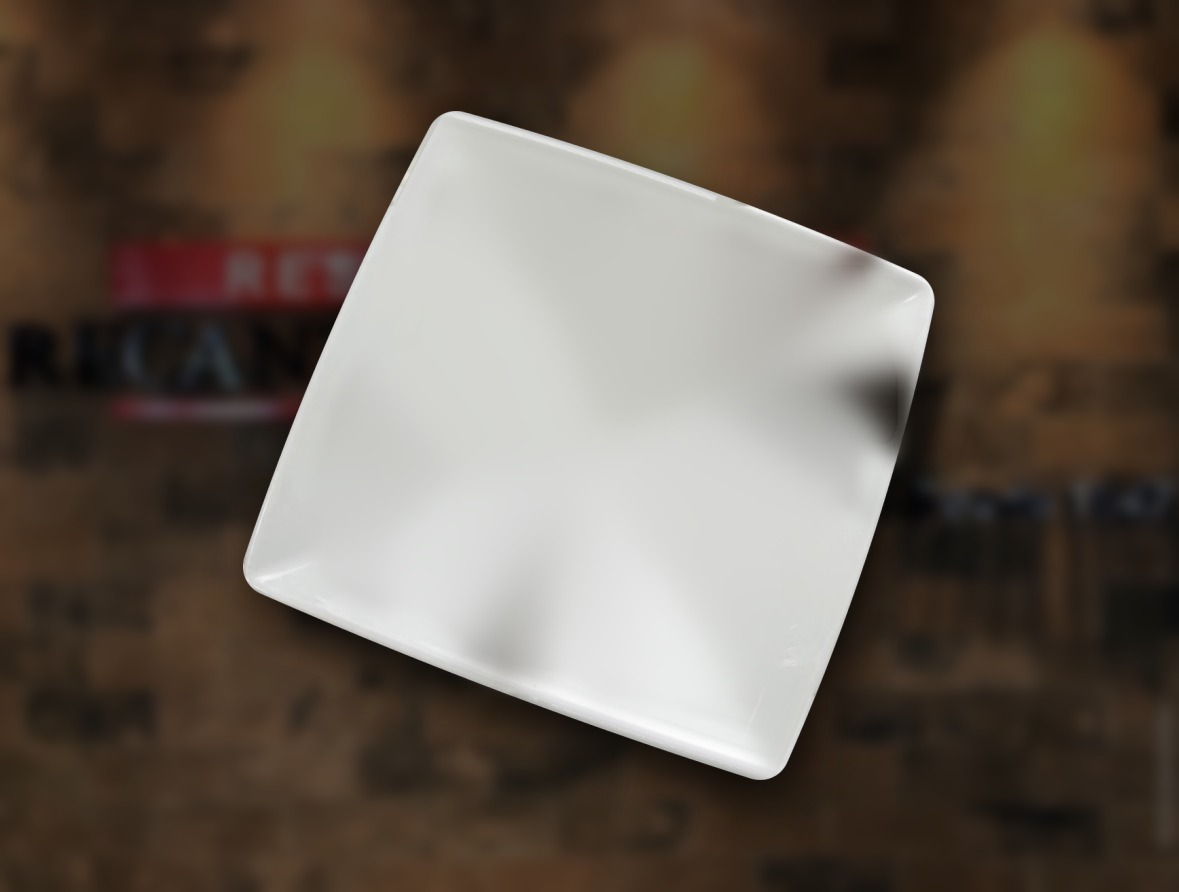
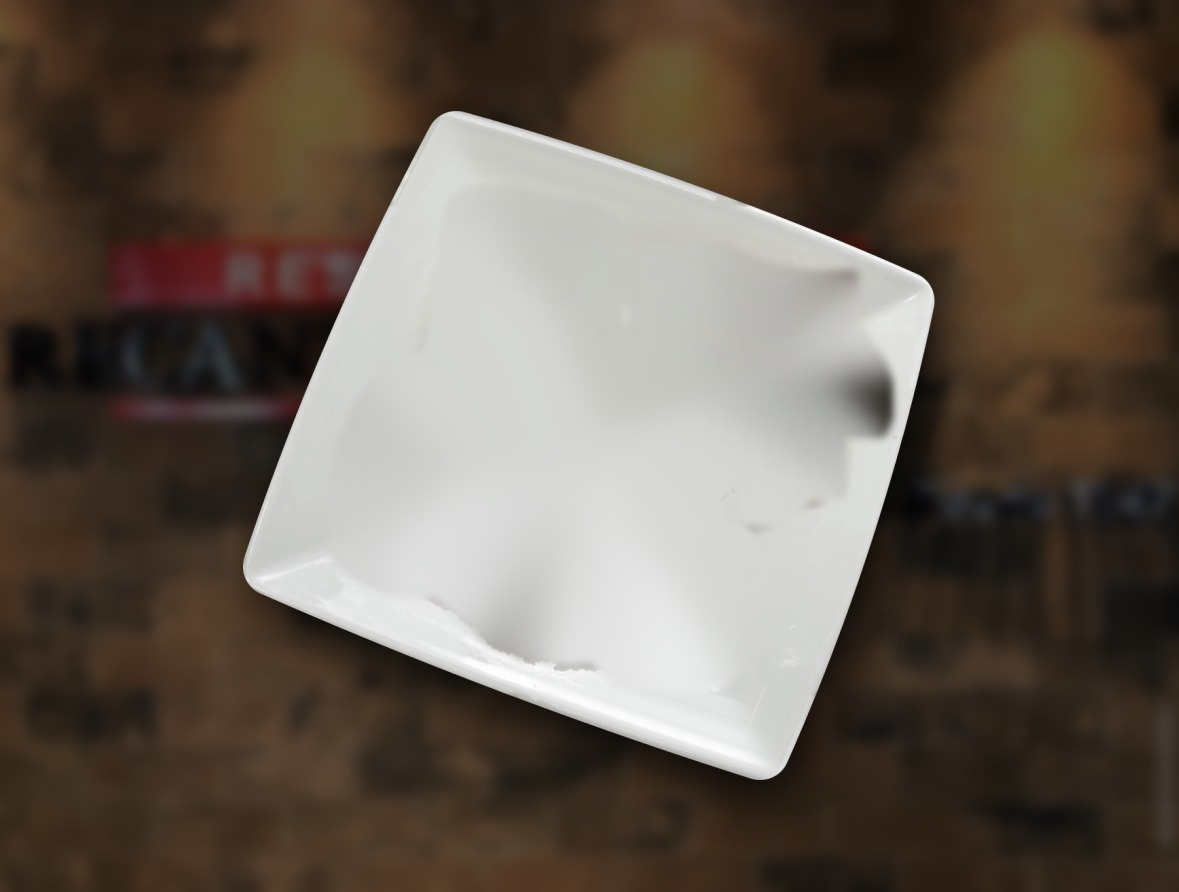
Parmegiana: batatas com menos brilho, movimento sutil e canto do prato nítido
- Batatas: máscara por cor (amarelo saturado e claro, só na região delas);
  altas luzes comprimidas e brilho -10%. Arroz, molho e prato intactos.
- Movimento da parmegiana: amplitude 0.022/0.017 (44% da padrão). Arroz e
  batatas têm relevo alto e o volume do prato ficava desproporcional.
  Shader e amplitude dos outros itens sem mudança.
- Fundo reconstruído só numa faixa de ~15 px em volta da comida: a faixa
  larga do pipeline borrava a quina do prato perto das batatas.
  diff_repouso 1,45.

Claude-Session: https://claude.ai/code/session_01K2YtLSGXNr9TyFoYXWuf2Z

Changed region(s): [[0.7023, 0.3935, 0.7939, 0.5146], [0.3664, 0.6962, 0.5191, 0.787], [0.6718, 0.2724, 0.7634, 0.333]]

diff --git a/lib/content.ts b/lib/content.ts
@@ -25,13 +25,15 @@ export type Item = {
 
 // foto inteira (1179x892): telas quadradas e o detalhe em tela cheia recortam pelo centro (cover)
 const ph = (slug: string): Photo => ({ slug, w: 1179, h: 892 });
+// parmegiana: arroz e batatas têm relevo alto no mapa e, na amplitude padrão (0.05, 0.038), o volume do prato
+// ficava desproporcional; 44% da amplitude deixa o movimento sutil (pedido do Victor, 17/11)
 
 /** Ilustrações só para quem ainda não tem foto. */
 export const ART: Record<string, string> = {};
 
 
 export const ITEMS: Item[] = [
-  { id: 'parmegiana', name: 'Arroz, parmegiana e fritas', cat: 'Prato principal', eyebrow: 'Prato principal', fx: 'steam', photo: ph('parmegiana'), video: { src: '/video/parmegiana.mp4', w: 1280, h: 720, first: '/video/parmegiana-inicio.webp', last: '/video/parmegiana-final.webp' }, desc: 'O prato principal da noite.', specs: [], pairs: ['heineken', 'coca'] },
+  { id: 'parmegiana', name: 'Arroz, parmegiana e fritas', cat: 'Prato principal', eyebrow: 'Prato principal', fx: 'steam', photo: { ...ph('parmegiana'), amp: [0.022, 0.017] }, video: { src: '/video/parmegiana.mp4', w: 1280, h: 720, first: '/video/parmegiana-inicio.webp', last: '/video/parmegiana-final.webp' }, desc: 'O prato principal da noite.', specs: [], pairs: ['heineken', 'coca'] },
   { id: 'croquete', name: 'Croquete', cat: 'Petisco', eyebrow: 'Petiscos', fx: 'steam', photo: ph('croquete'), desc: 'Porção de croquete.', specs: [], pairs: ['heineken', 'coca'] },
   { id: 'pintado', name: 'Bolinho de pintado', cat: 'Petisco', eyebrow: 'Petiscos', fx: 'steam', photo: ph('pintado'), desc: 'Bolinho de peixe pintado.', specs: [], pairs: ['caipi-limao', 'heineken'] },
   { id: 'rucula', name: 'Salada de rúcula', cat: 'Petisco', eyebrow: 'Petiscos', fx: 'steam', photo: ph('rucula'), desc: 'Salada de rúcula para abrir a mesa.', specs: [], pairs: ['campari', 'caipi-limao'] },
